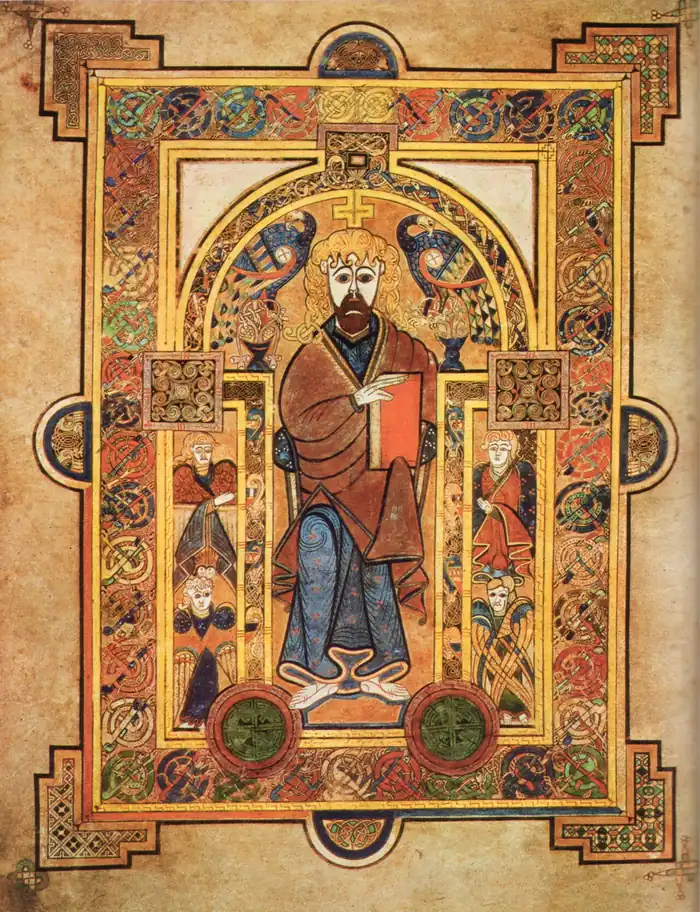
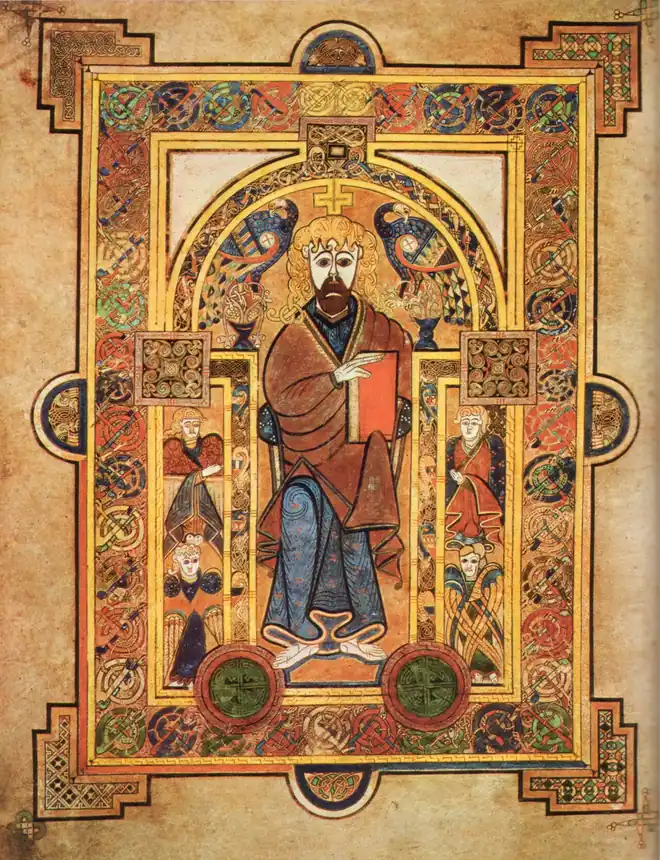
v3.2.2 · all 10 imagery WebPs strictly < 100 KB
- manuscript.webp 105 → 89 KB
- vienna-hofburg.webp 101 → 89 KB
- Full set now guaranteed sub-100KB per image (total 722 KB for 10 plates)

diff --git a/404.html b/404.html
@@ -512,7 +512,7 @@ footer.site{background-image:linear-gradient(180deg,rgba(66,48,26,0.92) 0%,rgba(
  <span class="mut">Session</span>
  <span class="acc" id="sessionId">K000-0000</span>
  <span class="mut">·</span>
- <span>Doc · CTRL-V3.2.1</span>
+ <span>Doc · CTRL-V3.2.2</span>
  </div>
 </div>
 
@@ -559,7 +559,7 @@ footer.site{background-image:linear-gradient(180deg,rgba(66,48,26,0.92) 0%,rgba(
 </header>
 
 <!-- === BREADCRUMB === -->
-<div class="breadcrumb" id="breadcrumb"><div class="inner"><div id="crumb"><a href="/">Home</a></div><div id="crumbRef"><span class="ref">— V 3.2.1</span> · 2026-04-19</div></div></div>
+<div class="breadcrumb" id="breadcrumb"><div class="inner"><div id="crumb"><a href="/">Home</a></div><div id="crumbRef"><span class="ref">— V 3.2.2</span> · 2026-04-19</div></div></div>
 
 <!-- === MAIN === -->
 <main id="main">
@@ -577,7 +577,7 @@ footer.site{background-image:linear-gradient(180deg,rgba(66,48,26,0.92) 0%,rgba(
  <h1 id="mandate" class="hero__mandate" data-i18n-html="hero.mandate">An Embassy Where the <em>Church</em><br>and the <em>State</em> Meet.</h1>
  <p class="hero__sub" data-i18n="hero.sub">The Kingdom of God — Holy Church of Jesus Christ maintains diplomatic representation under the framework of the Vienna Convention. Our two seats at Vienna and New York welcome pilgrims, students, diplomats, and partner institutions alike.</p>
  <div class="hero__seats"><span class="dot"></span><span data-i18n="hero.seats">Two Seats</span><span class="amp">·</span><span class="city">Vienna</span><span class="amp">&amp;</span><span class="city">New York</span><span class="amp">·</span><span>2026</span><span class="dot"></span></div>
- <div class="hero__meta"><span>Document of State</span><span class="sep">·</span><span>19 April 2026</span><span class="sep">·</span><span>v3.2.1</span></div>
+ <div class="hero__meta"><span>Document of State</span><span class="sep">·</span><span>19 April 2026</span><span class="sep">·</span><span>v3.2.2</span></div>
  <svg class="guilloche" viewBox="0 0 400 14" style="max-width:420px;margin:48px auto 0" aria-hidden="true"><path d="M0 7 C 20 0, 40 14, 60 7 S 100 14, 120 7 S 160 14, 180 7 S 220 14, 240 7 S 280 14, 300 7 S 340 14, 360 7 S 400 7, 400 7" fill="none" stroke="currentColor" stroke-width="0.7"/><path d="M0 7 C 20 14, 40 0, 60 7 S 100 0, 120 7 S 160 0, 180 7 S 220 0, 240 7 S 280 0, 300 7 S 340 0, 360 7 S 400 7, 400 7" fill="none" stroke="currentColor" stroke-width="0.7"/></svg>
  </div>
 
@@ -1407,8 +1407,8 @@ footer.site{background-image:linear-gradient(180deg,rgba(66,48,26,0.92) 0%,rgba(
  <div class="footer__col"><h4>— Institutional</h4><ul><li><a href="/seats">Seats &amp; Missions</a></li><li><a href="/press">Press &amp; Communiqués</a></li><li><a href="/visa">Visa &amp; Travel Documents</a></li><li><a href="/calendar">Calendar</a></li><li><a href="/advisories">Advisories</a></li><li><a href="/chancery">Chancery</a></li><li><a href="/legal-treaty">Legal · Standing</a></li><li><a href="/legal-privacy">Privacy</a></li><li><a href="/legal-imprint">Imprint</a></li></ul></div>
  </div>
  <div class="footer__bottom">
- <div>KGD-HCJC <span class="dot">·</span> v3.2.1 <span class="dot">·</span> <span data-i18n="footer.revised">Last revised</span> 2026-04-19 <span class="dot">·</span> Vienna &amp; New York</div>
- <div class="footer__doc-control">— Doc-Control CTRL-V3.2.1 · Ref STD-SEC-2026-0419 · kgd-embassy.org/verify</div>
+ <div>KGD-HCJC <span class="dot">·</span> v3.2.2 <span class="dot">·</span> <span data-i18n="footer.revised">Last revised</span> 2026-04-19 <span class="dot">·</span> Vienna &amp; New York</div>
+ <div class="footer__doc-control">— Doc-Control CTRL-V3.2.2 · Ref STD-SEC-2026-0419 · kgd-embassy.org/verify</div>
  <div class="footer__tagline">— <b>Kingdom of God — Holy Church of Jesus Christ Org. International</b> · The Bridge between States and Church · Embassy · Vienna &amp; New York</div>
  <div class="microline">KGD-EMBASSY.ORG · OFFICIAL · VERIFIED · KGD-EMBASSY.ORG · OFFICIAL · VERIFIED · KGD-EMBASSY.ORG · OFFICIAL · VERIFIED · KGD-EMBASSY.ORG · OFFICIAL · VERIFIED · KGD-EMBASSY.ORG · OFFICIAL · VERIFIED · KGD-EMBASSY.ORG · OFFICIAL · VERIFIED</div>
  </div>

diff --git a/index.html b/index.html
@@ -512,7 +512,7 @@ footer.site{background-image:linear-gradient(180deg,rgba(66,48,26,0.92) 0%,rgba(
  <span class="mut">Session</span>
  <span class="acc" id="sessionId">K000-0000</span>
  <span class="mut">·</span>
- <span>Doc · CTRL-V3.2.1</span>
+ <span>Doc · CTRL-V3.2.2</span>
  </div>
 </div>
 
@@ -559,7 +559,7 @@ footer.site{background-image:linear-gradient(180deg,rgba(66,48,26,0.92) 0%,rgba(
 </header>
 
 <!-- === BREADCRUMB === -->
-<div class="breadcrumb" id="breadcrumb"><div class="inner"><div id="crumb"><a href="/">Home</a></div><div id="crumbRef"><span class="ref">— V 3.2.1</span> · 2026-04-19</div></div></div>
+<div class="breadcrumb" id="breadcrumb"><div class="inner"><div id="crumb"><a href="/">Home</a></div><div id="crumbRef"><span class="ref">— V 3.2.2</span> · 2026-04-19</div></div></div>
 
 <!-- === MAIN === -->
 <main id="main">
@@ -577,7 +577,7 @@ footer.site{background-image:linear-gradient(180deg,rgba(66,48,26,0.92) 0%,rgba(
  <h1 id="mandate" class="hero__mandate" data-i18n-html="hero.mandate">An Embassy Where the <em>Church</em><br>and the <em>State</em> Meet.</h1>
  <p class="hero__sub" data-i18n="hero.sub">The Kingdom of God — Holy Church of Jesus Christ maintains diplomatic representation under the framework of the Vienna Convention. Our two seats at Vienna and New York welcome pilgrims, students, diplomats, and partner institutions alike.</p>
  <div class="hero__seats"><span class="dot"></span><span data-i18n="hero.seats">Two Seats</span><span class="amp">·</span><span class="city">Vienna</span><span class="amp">&amp;</span><span class="city">New York</span><span class="amp">·</span><span>2026</span><span class="dot"></span></div>
- <div class="hero__meta"><span>Document of State</span><span class="sep">·</span><span>19 April 2026</span><span class="sep">·</span><span>v3.2.1</span></div>
+ <div class="hero__meta"><span>Document of State</span><span class="sep">·</span><span>19 April 2026</span><span class="sep">·</span><span>v3.2.2</span></div>
  <svg class="guilloche" viewBox="0 0 400 14" style="max-width:420px;margin:48px auto 0" aria-hidden="true"><path d="M0 7 C 20 0, 40 14, 60 7 S 100 14, 120 7 S 160 14, 180 7 S 220 14, 240 7 S 280 14, 300 7 S 340 14, 360 7 S 400 7, 400 7" fill="none" stroke="currentColor" stroke-width="0.7"/><path d="M0 7 C 20 14, 40 0, 60 7 S 100 0, 120 7 S 160 0, 180 7 S 220 0, 240 7 S 280 0, 300 7 S 340 0, 360 7 S 400 7, 400 7" fill="none" stroke="currentColor" stroke-width="0.7"/></svg>
  </div>
 
@@ -1407,8 +1407,8 @@ footer.site{background-image:linear-gradient(180deg,rgba(66,48,26,0.92) 0%,rgba(
  <div class="footer__col"><h4>— Institutional</h4><ul><li><a href="/seats">Seats &amp; Missions</a></li><li><a href="/press">Press &amp; Communiqués</a></li><li><a href="/visa">Visa &amp; Travel Documents</a></li><li><a href="/calendar">Calendar</a></li><li><a href="/advisories">Advisories</a></li><li><a href="/chancery">Chancery</a></li><li><a href="/legal-treaty">Legal · Standing</a></li><li><a href="/legal-privacy">Privacy</a></li><li><a href="/legal-imprint">Imprint</a></li></ul></div>
  </div>
  <div class="footer__bottom">
- <div>KGD-HCJC <span class="dot">·</span> v3.2.1 <span class="dot">·</span> <span data-i18n="footer.revised">Last revised</span> 2026-04-19 <span class="dot">·</span> Vienna &amp; New York</div>
- <div class="footer__doc-control">— Doc-Control CTRL-V3.2.1 · Ref STD-SEC-2026-0419 · kgd-embassy.org/verify</div>
+ <div>KGD-HCJC <span class="dot">·</span> v3.2.2 <span class="dot">·</span> <span data-i18n="footer.revised">Last revised</span> 2026-04-19 <span class="dot">·</span> Vienna &amp; New York</div>
+ <div class="footer__doc-control">— Doc-Control CTRL-V3.2.2 · Ref STD-SEC-2026-0419 · kgd-embassy.org/verify</div>
  <div class="footer__tagline">— <b>Kingdom of God — Holy Church of Jesus Christ Org. International</b> · The Bridge between States and Church · Embassy · Vienna &amp; New York</div>
  <div class="microline">KGD-EMBASSY.ORG · OFFICIAL · VERIFIED · KGD-EMBASSY.ORG · OFFICIAL · VERIFIED · KGD-EMBASSY.ORG · OFFICIAL · VERIFIED · KGD-EMBASSY.ORG · OFFICIAL · VERIFIED · KGD-EMBASSY.ORG · OFFICIAL · VERIFIED · KGD-EMBASSY.ORG · OFFICIAL · VERIFIED</div>
  </div>
